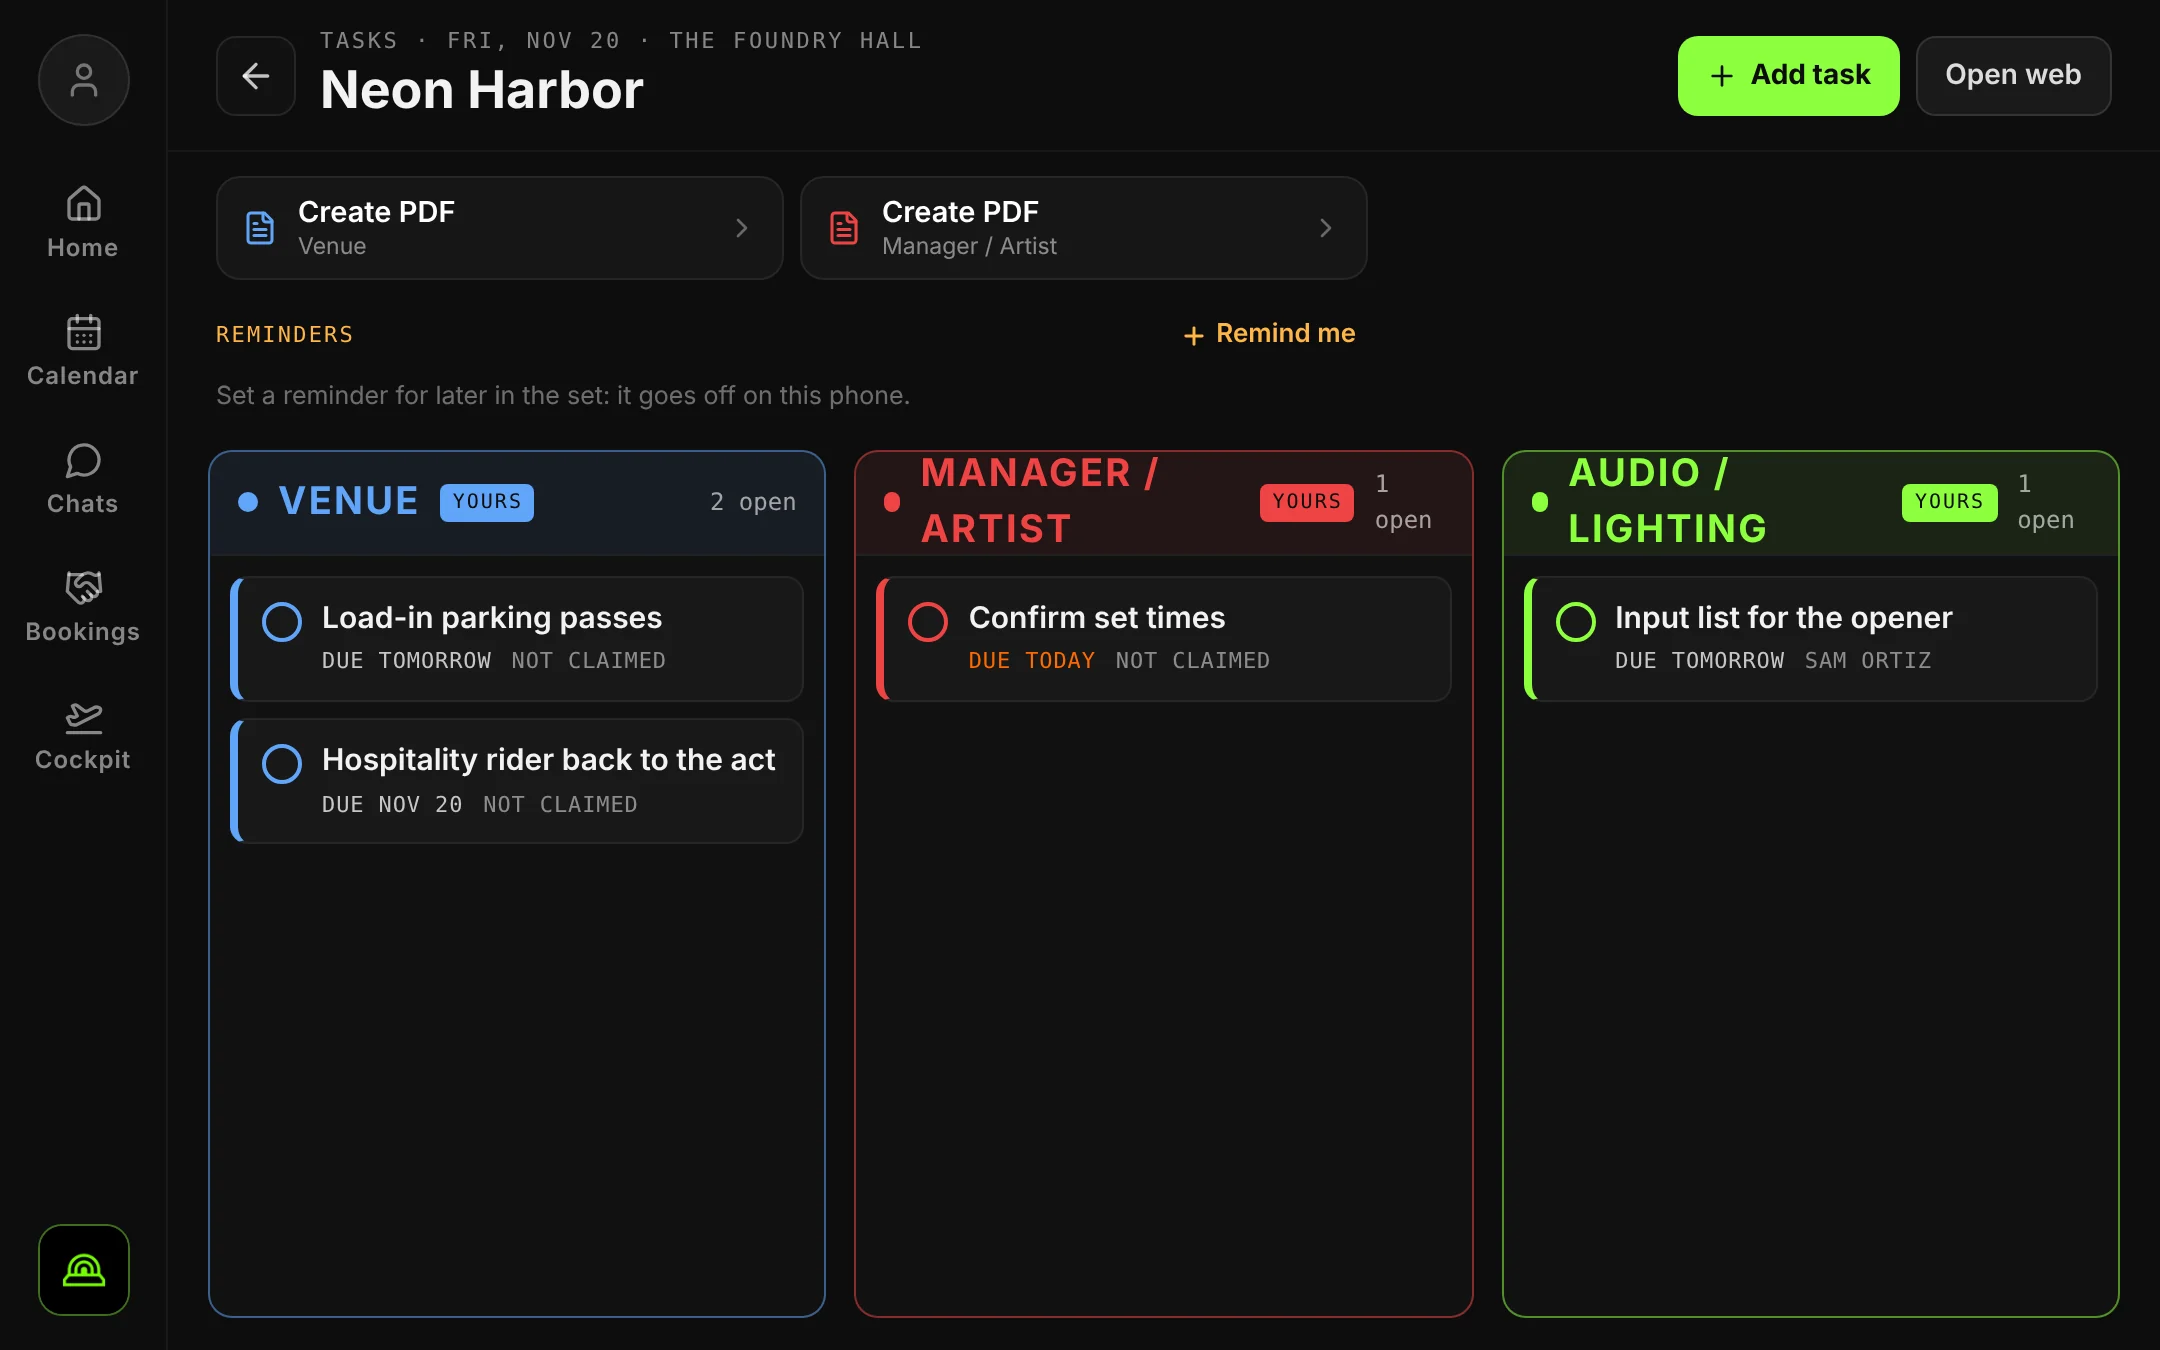
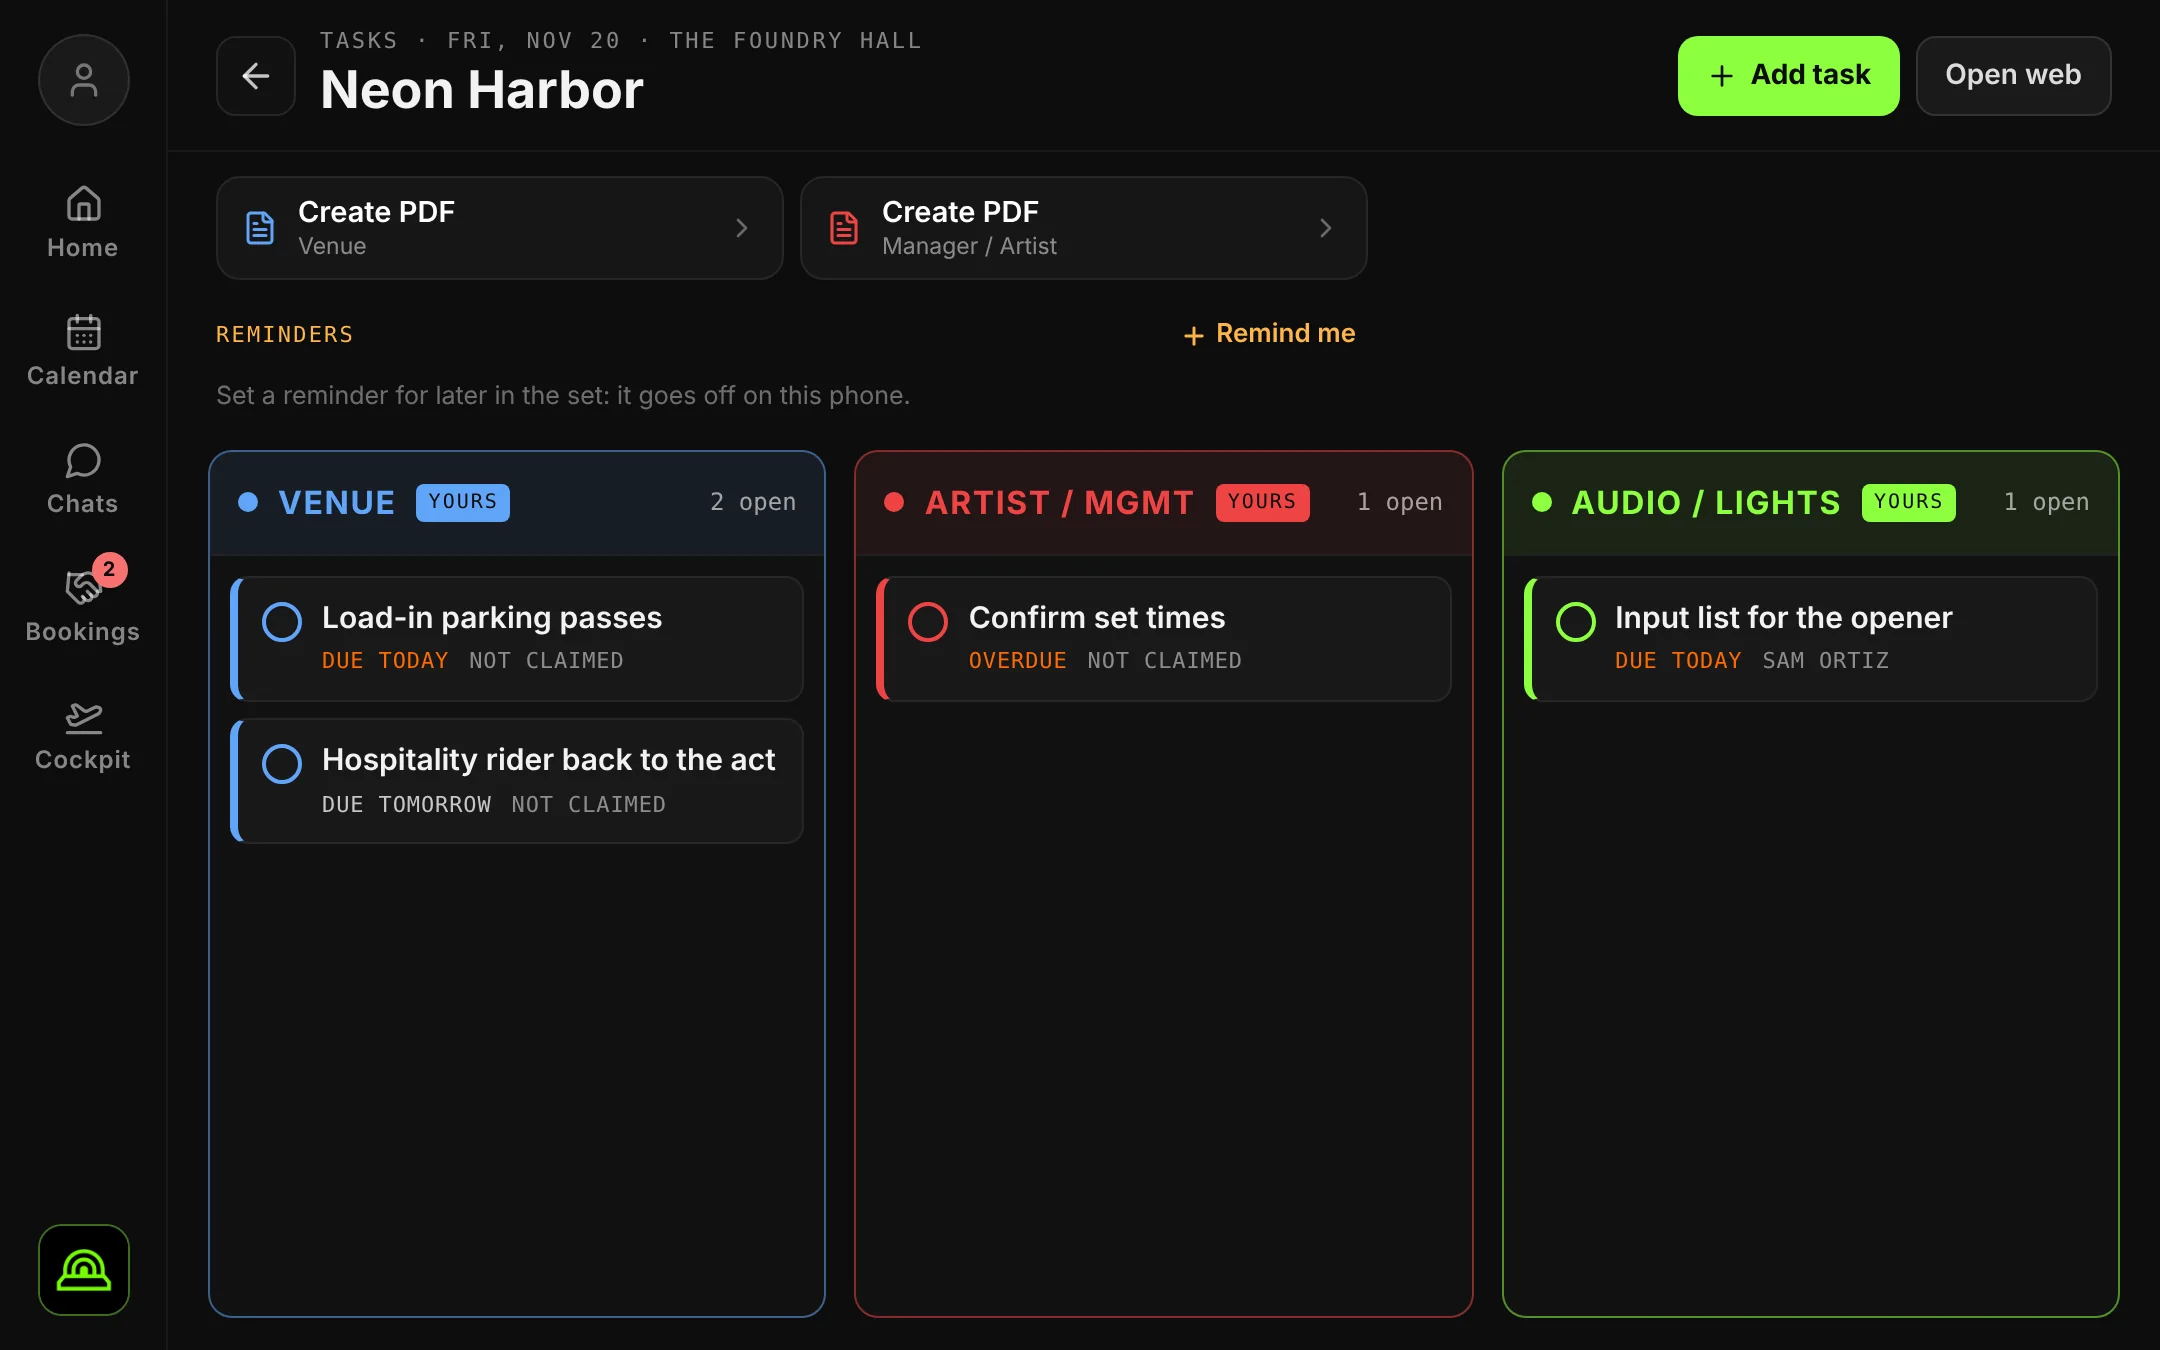
Event Tasks page: column headers fit on one line; site Tasks screens retaken (job 386)
The desktop columns are a third of the screen each, and "MANAGER / ARTIST"
and "AUDIO / LIGHTING" at 19px wrapped onto two lines and squeezed the open
count. Now: ARTIST / MGMT and AUDIO / LIGHTS (as on the event web), 16px on
desktop, name / YOURS / open count on one line.

Claude-Session: https://claude.ai/code/session_011F6hS4tKCc4ba8UPZXku15

diff --git a/src/pages/EventTasks.jsx b/src/pages/EventTasks.jsx
@@ -20,8 +20,8 @@ import BottomTabs from "@/components/showpilot/BottomTabs";
 
 const SECTIONS = [
   { value: "venue", label: "VENUE", long: "Venue", color: "#60A5FA" },
-  { value: "manager", label: "MANAGER / ARTIST", long: "Manager / Artist", color: "#EF4444" },
-  { value: "engineer", label: "AUDIO / LIGHTING", long: "Audio / Lighting", color: "#8CFF3D" },
+  { value: "manager", label: "ARTIST / MGMT", long: "Artist / Management", color: "#EF4444" },
+  { value: "engineer", label: "AUDIO / LIGHTS", long: "Audio / Lighting", color: "#8CFF3D" },
 ];
 const ROLE_TO_SECTION = { venue: "venue", manager: "manager", band: "manager", engineer: "engineer", lighting: "engineer" };
 
@@ -169,10 +169,11 @@ export default function EventTasks() {
           return (
             <section key={col.value} aria-label={col.long} className="min-h-0 flex flex-col rounded-xl bg-[#121212] overflow-hidden" style={{ border: `1px solid ${mine ? col.color + "88" : "#222"}` }}>
               <div className="h-[52px] shrink-0 flex items-center gap-2.5 px-3.5 border-b border-[#222]" style={{ background: col.color + "14" }}>
-                <span className="w-2.5 h-2.5 rounded-full" style={{ background: col.color }} />
-                <h2 className="text-[19px] font-bold tracking-[0.06em]" style={{ fontFamily: SCENE_FONT, color: col.color }}>{col.label}</h2>
-                {mine && <span className="text-[10px] tracking-[0.1em] px-1.5 py-0.5 rounded text-[#0d0d0d]" style={{ fontFamily: SCENE_MONO, background: col.color }}>YOURS</span>}
-                <span className="ml-auto text-[12px] text-white/60" style={{ fontFamily: SCENE_MONO }}>{openCount(col.value)} open</span>
+                {/* One line that fits a third of the screen: name, YOURS, open count (job 386). */}
+                <span className="shrink-0 w-2.5 h-2.5 rounded-full" style={{ background: col.color }} />
+                <h2 className="min-w-0 text-[19px] lg:text-[16px] font-bold tracking-[0.05em] whitespace-nowrap overflow-hidden text-ellipsis" style={{ fontFamily: SCENE_FONT, color: col.color }}>{col.label}</h2>
+                {mine && <span className="shrink-0 text-[10px] tracking-[0.1em] px-1.5 py-0.5 rounded text-[#0d0d0d]" style={{ fontFamily: SCENE_MONO, background: col.color }}>YOURS</span>}
+                <span className="shrink-0 ml-auto text-[12px] text-white/60 whitespace-nowrap" style={{ fontFamily: SCENE_MONO }}>{openCount(col.value)} open</span>
               </div>
               <div className="flex-1 min-h-0 overflow-y-auto p-2.5 flex flex-col gap-2" style={{ scrollbarWidth: "thin", scrollbarColor: "#333 transparent" }}>
                 {list.length === 0 && (
